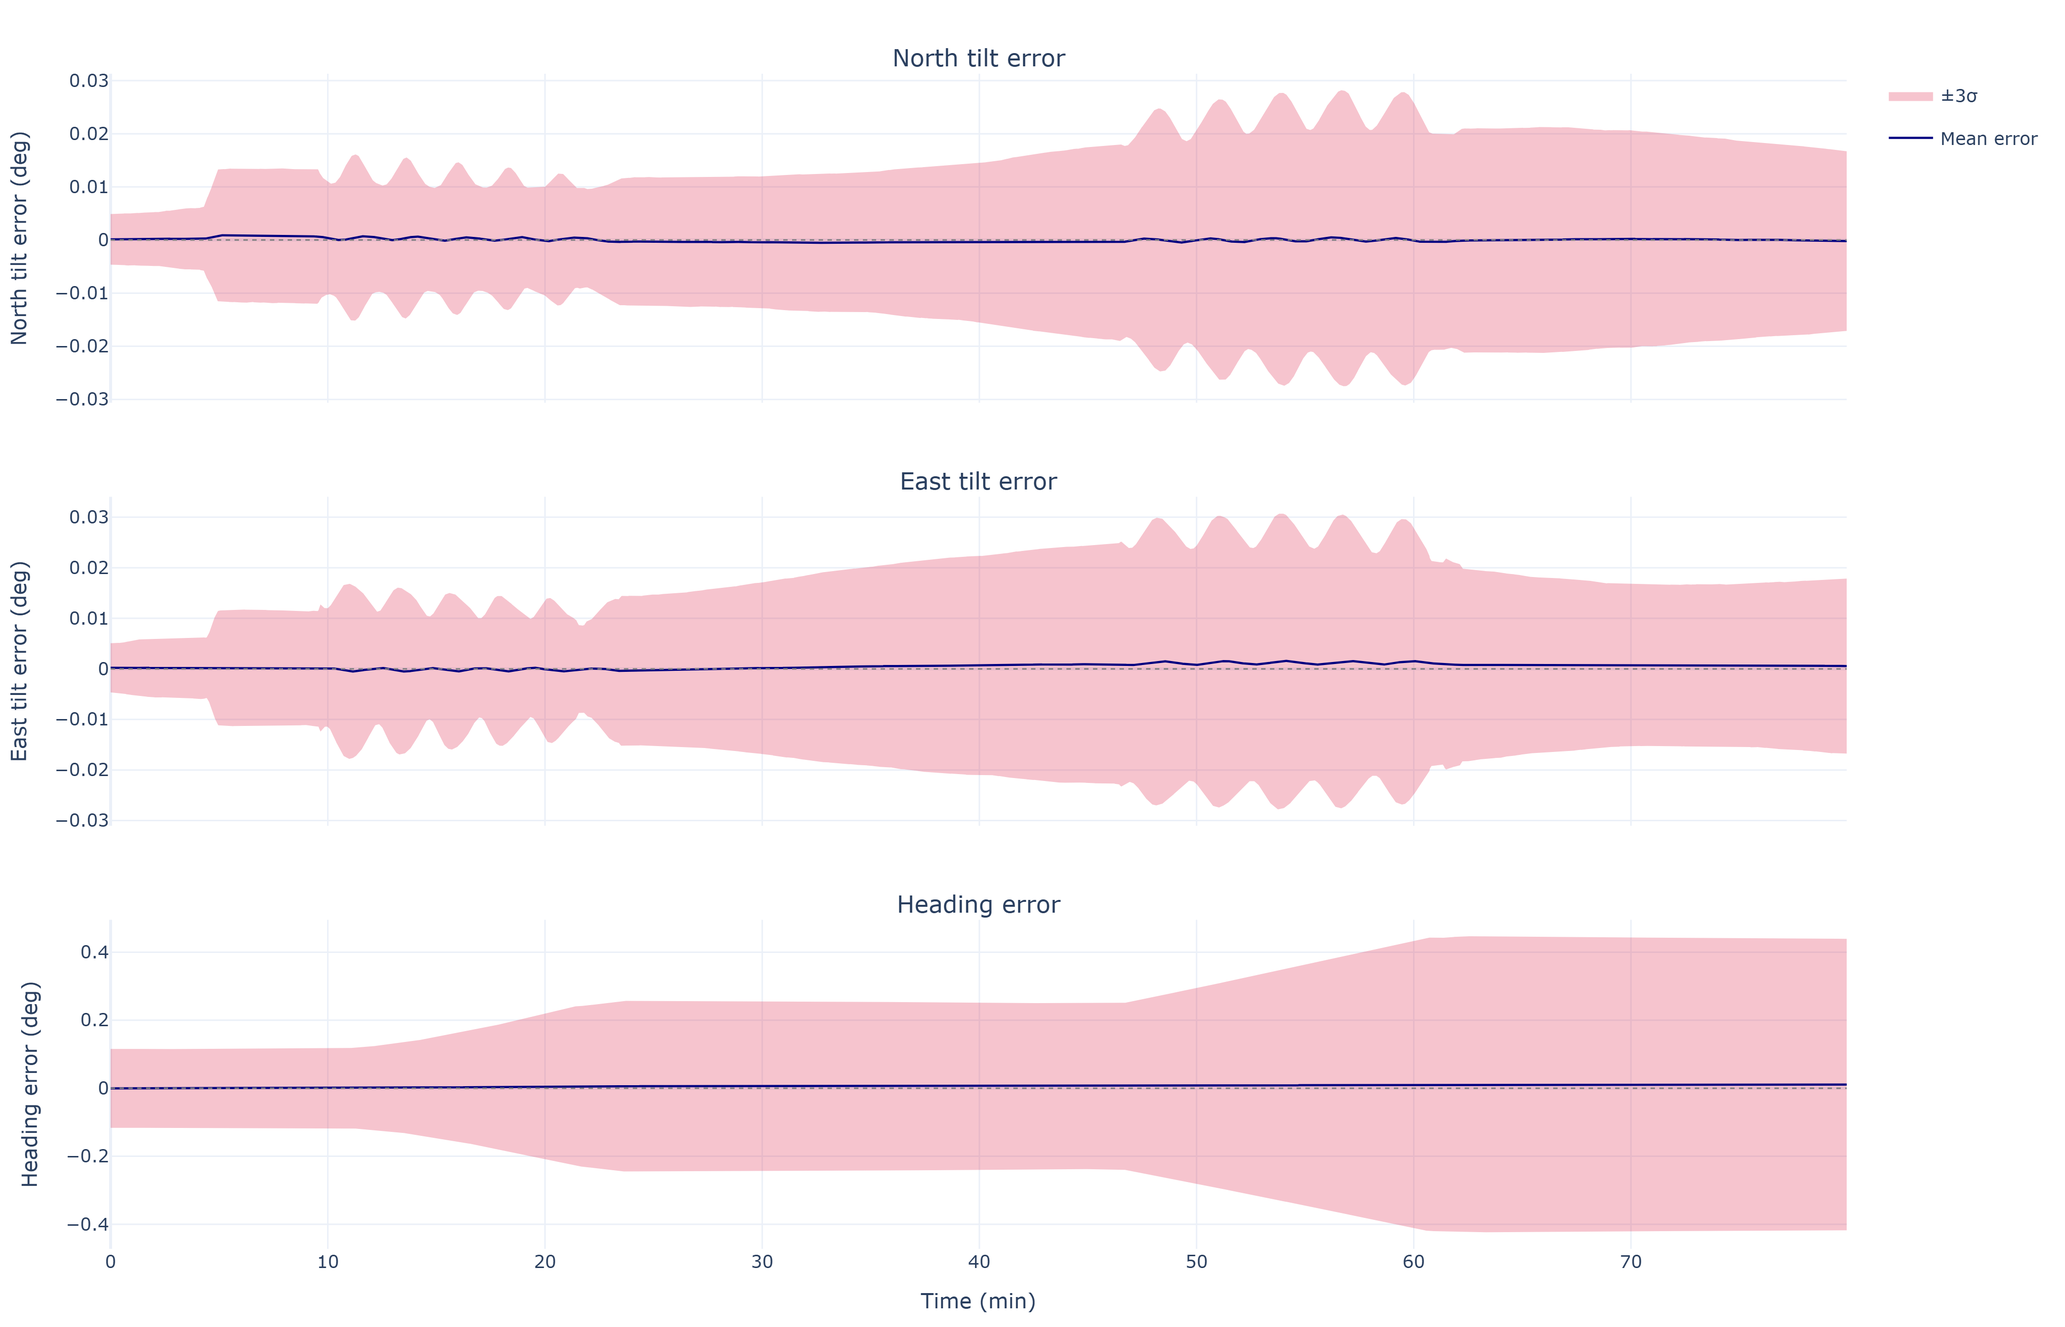
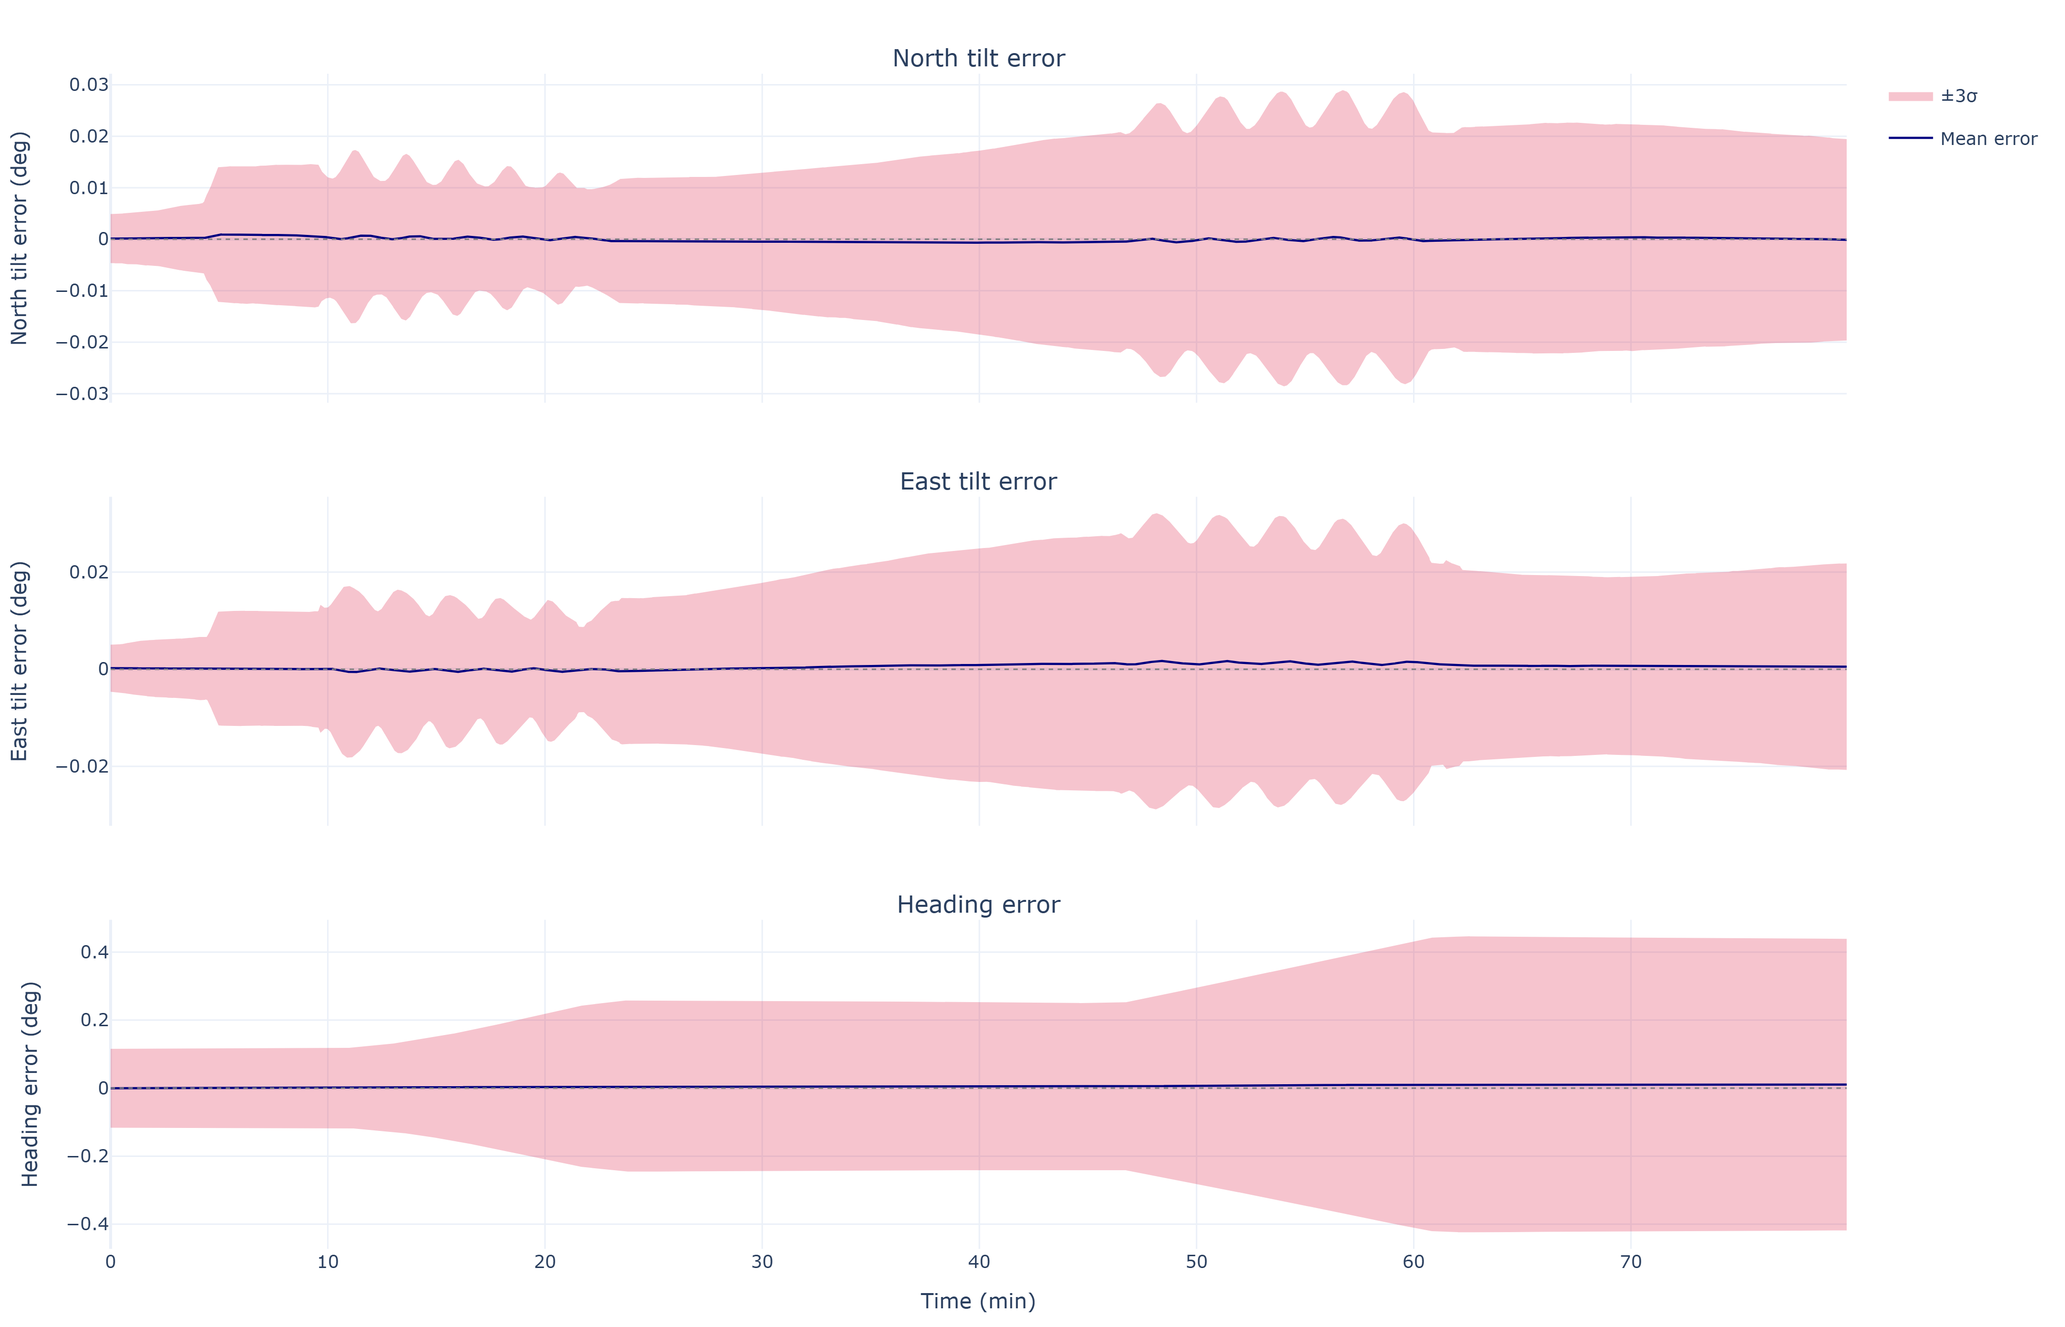
Treat IMU bias instability as the datasheet value
The bias_instab_* values in an IMU YAML, and the IMUSpec bias-instability
fields, are now the datasheet bias instability: the floor of the sensor's
Allan deviation. Previously the value was used directly as the spread of
the Gauss-Markov bias model, which put the simulated Allan-deviation peak
at only 0.62 times the datasheet value.

- The in-run bias is still a first-order Gauss-Markov process. Its spread
  is now derived as sigma = B / GM_ALLAN_PEAK (0.6173642831), so that its
  Allan deviation peaks at exactly B, at an averaging time of 1.89
  correlation times.
- IMUSpec fields renamed so the Python API reads the same way:
  gyro_bi_std -> gyro_bias_instability, gyro_bi_tau -> gyro_bias_tau, and
  likewise for the accelerometer. The derived spreads are the properties
  gyro_gm_std and accel_gm_std. The YAML keys are unchanged; the packaged
  spec's comments now say what they mean.
- Results change: the default spec's in-run bias spread grows by 1.62x.
  The baseline documentation figures are regenerated.
- Tests check that the YAML value is stored as the datasheet value and
  that GM_ALLAN_PEAK equals the maximum of the analytic Gauss-Markov
  Allan deviation.

diff --git a/ins_sim/sensors/imu.py b/ins_sim/sensors/imu.py
@@ -21,10 +21,17 @@ from scipy.signal import lfilter
 if TYPE_CHECKING:
     from ins_sim.trajectory.kinematics import TruthTrajectory
 
+#: Peak of the Allan deviation of a first-order Gauss-Markov process, per
+#: unit of its steady-state spread σ. The peak occurs at an averaging time
+#: of 1.8926 correlation times. ins_sim models bias instability with such a
+#: process and sets σ = B / GM_ALLAN_PEAK, so that the simulated bias's
+#: Allan deviation peaks at the datasheet bias instability B.
+GM_ALLAN_PEAK = 0.6173642831
+
 
 @dataclass
 class IMUSpec:
-    """Navigation-grade IMU error parameters.
+    """Navigation-grade IMU error parameters, as quoted on a sensor datasheet.
 
     The defaults are typical of fielded navigation-grade systems, such as a
     ring-laser-gyro aircraft INS:
@@ -35,16 +42,22 @@ class IMUSpec:
     | Bias instability | 0.01 °/h | 5 µg |
     | Turn-on repeatability | 0.01 °/h | 25 µg |
 
-    The field names are datasheet parameters; each one sets the spread of
-    a Groves (2013) error term (see the Notation & conventions page).
+    Every field is a datasheet parameter in SI units; each one sets the
+    spread of a Groves (2013) error term (see the Notation & conventions
+    page). Bias instability is the datasheet value, the floor of the
+    sensor's Allan deviation. The in-run bias is simulated as a first-order
+    Gauss-Markov process whose steady-state spread (`gyro_gm_std`,
+    `accel_gm_std`) is chosen so that its Allan deviation peaks at exactly
+    that value.
 
     Attributes:
         gyro_arw: Gyro angular random walk, the density of the white
             noise w_g [rad/√s].
-        gyro_bi_std: Gyro bias-instability steady-state std dev of the
-            Gauss-Markov dynamic bias b_gd [rad/s].
-        gyro_bi_tau: Gyro bias-instability Gauss-Markov correlation
-            time [s].
+        gyro_bias_instability: Gyro bias instability from the datasheet,
+            the floor of the Allan deviation [rad/s]. Sets the dynamic
+            bias b_gd.
+        gyro_bias_tau: Correlation time of the Gauss-Markov process that
+            models the gyro bias instability [s].
         gyro_br_std: Gyro turn-on bias repeatability, the std dev of the
             static bias b_gs [rad/s].
         gyro_sf_std: Gyro scale-factor error std dev (diagonal of M_g),
@@ -53,10 +66,11 @@ class IMUSpec:
             drawn once per run per element [rad].
         accel_vrw: Accelerometer velocity random walk, the density of the
             white noise w_a [(m/s)/√s].
-        accel_bi_std: Accelerometer bias-instability steady-state std
-            dev of the Gauss-Markov dynamic bias b_ad [m/s²].
-        accel_bi_tau: Accelerometer bias-instability Gauss-Markov
-            correlation time [s].
+        accel_bias_instability: Accelerometer bias instability from the
+            datasheet, the floor of the Allan deviation [m/s²]. Sets the
+            dynamic bias b_ad.
+        accel_bias_tau: Correlation time of the Gauss-Markov process that
+            models the accelerometer bias instability [s].
         accel_br_std: Accelerometer turn-on bias repeatability, the std
             dev of the static bias b_as [m/s²].
         accel_sf_std: Accelerometer scale-factor error std dev (diagonal
@@ -76,22 +90,40 @@ class IMUSpec:
         keep their exact-passthrough behavior.
     """
     # Gyro
-    gyro_arw:    float = 0.002 * np.pi/180 / 60          # rad / √s
-    gyro_bi_std: float = 0.01  * np.pi/180 / 3600        # rad / s
-    gyro_bi_tau: float = 3600.0                          # GM correlation time [s]
-    gyro_br_std: float = 0.01  * np.pi/180 / 3600        # rad / s
-    gyro_sf_std: float = 0.0                             # dimensionless
-    gyro_ma_std: float = 0.0                             # rad
+    gyro_arw:              float = 0.002 * np.pi/180 / 60    # rad / √s
+    gyro_bias_instability: float = 0.01  * np.pi/180 / 3600  # rad / s (datasheet)
+    gyro_bias_tau:         float = 3600.0                    # GM correlation time [s]
+    gyro_br_std:           float = 0.01  * np.pi/180 / 3600  # rad / s
+    gyro_sf_std:           float = 0.0                       # dimensionless
+    gyro_ma_std:           float = 0.0                       # rad
     # Accel
-    accel_vrw:    float = 0.005 / 60                     # (m/s) / √s
-    accel_bi_std: float =  5e-6 * 9.80665                # 5 µg
-    accel_bi_tau: float = 3600.0
-    accel_br_std: float = 25e-6 * 9.80665                # 25 µg
-    accel_sf_std: float = 0.0                            # dimensionless
-    accel_ma_std: float = 0.0                            # rad
+    accel_vrw:              float = 0.005 / 60               # (m/s) / √s
+    accel_bias_instability: float =  5e-6 * 9.80665          # 5 µg (datasheet)
+    accel_bias_tau:         float = 3600.0                   # GM correlation time [s]
+    accel_br_std:           float = 25e-6 * 9.80665          # 25 µg
+    accel_sf_std:           float = 0.0                      # dimensionless
+    accel_ma_std:           float = 0.0                      # rad
     # Initial alignment
-    align_tilt_std:    float = 0.0                       # rad
-    align_heading_std: float = 0.0                       # rad
+    align_tilt_std:    float = 0.0                           # rad
+    align_heading_std: float = 0.0                           # rad
+
+    @property
+    def gyro_gm_std(self) -> float:
+        """Steady-state std dev of the gyro Gauss-Markov bias b_gd [rad/s].
+
+        Chosen so that the bias's Allan deviation peaks at
+        `gyro_bias_instability`: σ = B / GM_ALLAN_PEAK ≈ 1.62·B.
+        """
+        return self.gyro_bias_instability / GM_ALLAN_PEAK
+
+    @property
+    def accel_gm_std(self) -> float:
+        """Steady-state std dev of the accelerometer Gauss-Markov bias b_ad [m/s²].
+
+        Chosen so that the bias's Allan deviation peaks at
+        `accel_bias_instability`: σ = B / GM_ALLAN_PEAK ≈ 1.62·B.
+        """
+        return self.accel_bias_instability / GM_ALLAN_PEAK
 
 
 class IMUSamples(NamedTuple):
@@ -135,14 +167,14 @@ def load_imu_spec(yaml_path: str) -> IMUSpec:
     DEG_HR = np.pi / 180 / 3600
     return IMUSpec(
         gyro_arw     = g["arw_deg_per_rt_hr"]          * np.pi / 180 / 60,
-        gyro_bi_std  = g["bias_instab_deg_per_hr"]     * DEG_HR,
-        gyro_bi_tau  = g["bias_tau_s"],
+        gyro_bias_instability = g["bias_instab_deg_per_hr"]  * DEG_HR,
+        gyro_bias_tau         = g["bias_tau_s"],
         gyro_br_std  = g["repeatability_deg_per_hr"]   * DEG_HR,
         gyro_sf_std  = g.get("scale_factor_ppm", 0.0)   * 1e-6,
         gyro_ma_std  = g.get("misalignment_urad", 0.0)  * 1e-6,
         accel_vrw    = a["vrw_m_per_s_per_rt_hr"]      / 60,
-        accel_bi_std = a["bias_instab_ug"]              * 1e-6 * 9.80665,
-        accel_bi_tau = a["bias_tau_s"],
+        accel_bias_instability = a["bias_instab_ug"]     * 1e-6 * 9.80665,
+        accel_bias_tau         = a["bias_tau_s"],
         accel_br_std = a["repeatability_ug"]            * 1e-6 * 9.80665,
         accel_sf_std = a.get("scale_factor_ppm", 0.0)   * 1e-6,
         accel_ma_std = a.get("misalignment_urad", 0.0)  * 1e-6,
@@ -283,8 +315,9 @@ def generate_imu_samples(truth: "TruthTrajectory", spec: IMUSpec,
       drawn once per run.
     - b_as, b_gs: static (turn-on) bias ~ N(0, σ_BR²), drawn once per run.
     - b_ad, b_gd: dynamic bias, a first-order Gauss-Markov process with
-      steady-state std σ_BI and correlation time τ_BI, stationary from
-      t = 0.
+      correlation time τ and steady-state spread σ = B / GM_ALLAN_PEAK, so
+      that its Allan deviation peaks at the datasheet bias instability B.
+      Stationary from t = 0.
     - w_a, w_g: white noise, with σ = VRW/√tau_i or ARW/√tau_i per sample.
 
     The gyro and accelerometer triads draw from separate random streams
@@ -317,8 +350,8 @@ def generate_imu_samples(truth: "TruthTrajectory", spec: IMUSpec,
     rng_gyro, rng_accel = rng.spawn(2)
     meas_omega_ib_b = _triad_measurement(
         rng_gyro, truth.omega_ib_b, tau_i, spec.gyro_sf_std, spec.gyro_ma_std,
-        spec.gyro_br_std, spec.gyro_bi_std, spec.gyro_bi_tau, spec.gyro_arw)
+        spec.gyro_br_std, spec.gyro_gm_std, spec.gyro_bias_tau, spec.gyro_arw)
     meas_f_ib_b = _triad_measurement(
         rng_accel, truth.f_ib_b, tau_i, spec.accel_sf_std, spec.accel_ma_std,
-        spec.accel_br_std, spec.accel_bi_std, spec.accel_bi_tau, spec.accel_vrw)
+        spec.accel_br_std, spec.accel_gm_std, spec.accel_bias_tau, spec.accel_vrw)
     return IMUSamples(meas_omega_ib_b, meas_f_ib_b)

diff --git a/tests/sensors/test_imu.py b/tests/sensors/test_imu.py
@@ -4,7 +4,7 @@ import numpy as np
 import pytest
 
 from ins_sim.config import default_imu_spec_path
-from ins_sim.sensors.imu import (IMUSpec, draw_initial_misalignment,
+from ins_sim.sensors.imu import (GM_ALLAN_PEAK, IMUSpec, draw_initial_misalignment,
                                  generate_imu_samples, load_imu_spec)
 
 
@@ -13,12 +13,12 @@ def test_load_imu_spec_matches_default_dataclass_values():
     default = IMUSpec()
 
     assert spec.gyro_arw == pytest.approx(default.gyro_arw)
-    assert spec.gyro_bi_std == pytest.approx(default.gyro_bi_std)
-    assert spec.gyro_bi_tau == pytest.approx(default.gyro_bi_tau)
+    assert spec.gyro_bias_instability == pytest.approx(default.gyro_bias_instability)
+    assert spec.gyro_bias_tau == pytest.approx(default.gyro_bias_tau)
     assert spec.gyro_br_std == pytest.approx(default.gyro_br_std)
     assert spec.accel_vrw == pytest.approx(default.accel_vrw)
-    assert spec.accel_bi_std == pytest.approx(default.accel_bi_std)
-    assert spec.accel_bi_tau == pytest.approx(default.accel_bi_tau)
+    assert spec.accel_bias_instability == pytest.approx(default.accel_bias_instability)
+    assert spec.accel_bias_tau == pytest.approx(default.accel_bias_tau)
     assert spec.accel_br_std == pytest.approx(default.accel_br_std)
 
 
@@ -33,8 +33,8 @@ def _stub_truth(M=200, dt=0.1):
 
 def test_generate_imu_samples_zero_noise_is_exact_passthrough():
     truth = _stub_truth()
-    zero_spec = IMUSpec(gyro_arw=0, gyro_bi_std=0, gyro_br_std=0,
-                        accel_vrw=0, accel_bi_std=0, accel_br_std=0)
+    zero_spec = IMUSpec(gyro_arw=0, gyro_bias_instability=0, gyro_br_std=0,
+                        accel_vrw=0, accel_bias_instability=0, accel_br_std=0)
     rng = np.random.default_rng(0)
     meas_omega_ib_b, meas_f_ib_b = generate_imu_samples(truth, zero_spec, rng)
     np.testing.assert_array_equal(meas_omega_ib_b, truth.omega_ib_b)
@@ -75,8 +75,8 @@ def test_scale_factor_error_is_multiplicative():
     # Only gyro scale factor active: measurement/truth ratio must be a
     # per-axis constant of plausible magnitude, identical at every sample.
     truth = _stub_truth()
-    spec = IMUSpec(gyro_arw=0, gyro_bi_std=0, gyro_br_std=0,
-                   accel_vrw=0, accel_bi_std=0, accel_br_std=0,
+    spec = IMUSpec(gyro_arw=0, gyro_bias_instability=0, gyro_br_std=0,
+                   accel_vrw=0, accel_bias_instability=0, accel_br_std=0,
                    gyro_sf_std=100e-6)
     rng = np.random.default_rng(3)
     meas_omega_ib_b, meas_f_ib_b = generate_imu_samples(truth, spec, rng)
@@ -94,8 +94,8 @@ def test_misalignment_couples_axes():
     # must pick up a proportional constant component.
     truth = _stub_truth()
     truth.omega_ib_b = np.tile([0.02, 0.0, 0.0], (len(truth.t), 1))
-    spec = IMUSpec(gyro_arw=0, gyro_bi_std=0, gyro_br_std=0,
-                   accel_vrw=0, accel_bi_std=0, accel_br_std=0,
+    spec = IMUSpec(gyro_arw=0, gyro_bias_instability=0, gyro_br_std=0,
+                   accel_vrw=0, accel_bias_instability=0, accel_br_std=0,
                    gyro_ma_std=100e-6)
     rng = np.random.default_rng(4)
     meas_omega_ib_b, _ = generate_imu_samples(truth, spec, rng)
@@ -128,7 +128,7 @@ def test_generate_imu_samples_white_noise_statistics():
     # samples (generous tolerance -- this is a statistical check).
     M, dt = 20000, 0.1
     truth = _stub_truth(M=M, dt=dt)
-    spec = IMUSpec(gyro_bi_std=0, gyro_br_std=0, accel_bi_std=0, accel_br_std=0)
+    spec = IMUSpec(gyro_bias_instability=0, gyro_br_std=0, accel_bias_instability=0, accel_br_std=0)
     rng = np.random.default_rng(7)
     meas_omega_ib_b, meas_f_ib_b = generate_imu_samples(truth, spec, rng)
 
@@ -147,8 +147,9 @@ def test_gauss_markov_bias_is_stationary_from_the_first_sample():
     # runs must equal the steady-state σ at the first sample (b_d[0] is drawn
     # from the stationary distribution) and stay there later on.
     sigma, tau = 1e-5, 20.0
-    spec = IMUSpec(gyro_arw=0, gyro_br_std=0, accel_vrw=0, accel_bi_std=0,
-                   accel_br_std=0, gyro_bi_std=sigma, gyro_bi_tau=tau)
+    spec = IMUSpec(gyro_arw=0, gyro_br_std=0, accel_vrw=0, accel_bias_instability=0,
+                   accel_br_std=0, gyro_bias_instability=sigma * GM_ALLAN_PEAK,
+                   gyro_bias_tau=tau)
     truth = _stub_truth(M=60, dt=1.0)
     bias = np.array([
         generate_imu_samples(truth, spec, np.random.default_rng(seed)).meas_omega_ib_b
@@ -168,9 +169,27 @@ def test_gyro_errors_do_not_depend_on_the_accelerometer_spec():
     # parameters must leave the gyro realization bit-identical.
     truth = _stub_truth()
     spec_a = IMUSpec()
-    spec_b = IMUSpec(accel_vrw=3 * spec_a.accel_vrw, accel_bi_std=0.0,
+    spec_b = IMUSpec(accel_vrw=3 * spec_a.accel_vrw, accel_bias_instability=0.0,
                      accel_sf_std=1e-4, accel_ma_std=1e-4)
     a = generate_imu_samples(truth, spec_a, np.random.default_rng(9))
     b = generate_imu_samples(truth, spec_b, np.random.default_rng(9))
     np.testing.assert_array_equal(a.meas_omega_ib_b, b.meas_omega_ib_b)
     assert not np.array_equal(a.meas_f_ib_b, b.meas_f_ib_b)
+
+
+def test_yaml_bias_instability_is_the_datasheet_value():
+    # The YAML's bias_instab_deg_per_hr is stored as given (in SI units) as
+    # the datasheet bias instability; the model's Gauss-Markov spread is
+    # derived from it so that the Allan deviation peaks at that value.
+    spec = load_imu_spec(str(default_imu_spec_path()))
+    datasheet = 0.01 * np.pi / 180.0 / 3600.0
+    assert spec.gyro_bias_instability == pytest.approx(datasheet)
+    assert spec.gyro_gm_std == pytest.approx(datasheet / GM_ALLAN_PEAK)
+    assert spec.accel_gm_std == pytest.approx(5e-6 * 9.80665 / GM_ALLAN_PEAK)
+
+
+def test_allan_peak_ratio_matches_the_gauss_markov_formula():
+    x = np.linspace(1.0, 3.0, 200001)                         # T / tau_c
+    adev = np.sqrt((2 * x - 3 + 4 * np.exp(-x) - np.exp(-2 * x)) / x**2)
+    assert adev.max() == pytest.approx(GM_ALLAN_PEAK, abs=1e-9)
+    assert x[np.argmax(adev)] == pytest.approx(1.8926, abs=1e-4)

diff --git a/tests/evaluation/test_monte_carlo.py b/tests/evaluation/test_monte_carlo.py
@@ -7,8 +7,8 @@ from ins_sim.sensors.imu import IMUSpec, draw_initial_misalignment
 from ins_sim.trajectory.kinematics import TruthTrajectory
 from ins_sim.trajectory.spline import NEDSplinePath
 
-ZERO_SENSORS = dict(gyro_arw=0.0, gyro_bi_std=0.0, gyro_br_std=0.0,
-                    accel_vrw=0.0, accel_bi_std=0.0, accel_br_std=0.0)
+ZERO_SENSORS = dict(gyro_arw=0.0, gyro_bias_instability=0.0, gyro_br_std=0.0,
+                    accel_vrw=0.0, accel_bias_instability=0.0, accel_br_std=0.0)
 
 
 def _short_truth():

diff --git a/docs/theory/notation.md b/docs/theory/notation.md
@@ -194,7 +194,7 @@ where each bias is split into a static and a dynamic part,
 | Term | Meaning | Drawn | `IMUSpec` field | YAML key |
 | ---- | ------- | ----- | --------------- | -------- |
 | \(\mathbf{b}_{gs}\), \(\mathbf{b}_{as}\) | Static (turn-on) bias | Once per trial | `gyro_br_std`, `accel_br_std` | `repeatability_*` |
-| \(\mathbf{b}_{gd}\), \(\mathbf{b}_{ad}\) | Dynamic (in-run) bias: first-order Gauss–Markov | Every sample | `*_bi_std`, `*_bi_tau` | `bias_instab_*`, `bias_tau_s` |
+| \(\mathbf{b}_{gd}\), \(\mathbf{b}_{ad}\) | Dynamic (in-run) bias: a first-order Gauss–Markov process whose Allan deviation peaks at the datasheet bias instability | Every sample | `*_bias_instability`, `*_bias_tau` | `bias_instab_*`, `bias_tau_s` |
 | \(\mathbf{M}_g\), \(\mathbf{M}_a\) | Scale factor (diagonal) and misalignment (off-diagonal) | Once per trial | `*_sf_std`, `*_ma_std` | `scale_factor_ppm`, `misalignment_urad` |
 | \(\mathbf{w}_g\), \(\mathbf{w}_a\) | White noise: ARW and VRW | Every sample | `gyro_arw`, `accel_vrw` | `arw_deg_per_rt_hr`, `vrw_m_per_s_per_rt_hr` |
 | \(\delta\psivec{nb}{n}(0)\) | Initial alignment error | Once per trial | `align_tilt_std`, `align_heading_std` | `alignment:` block |
